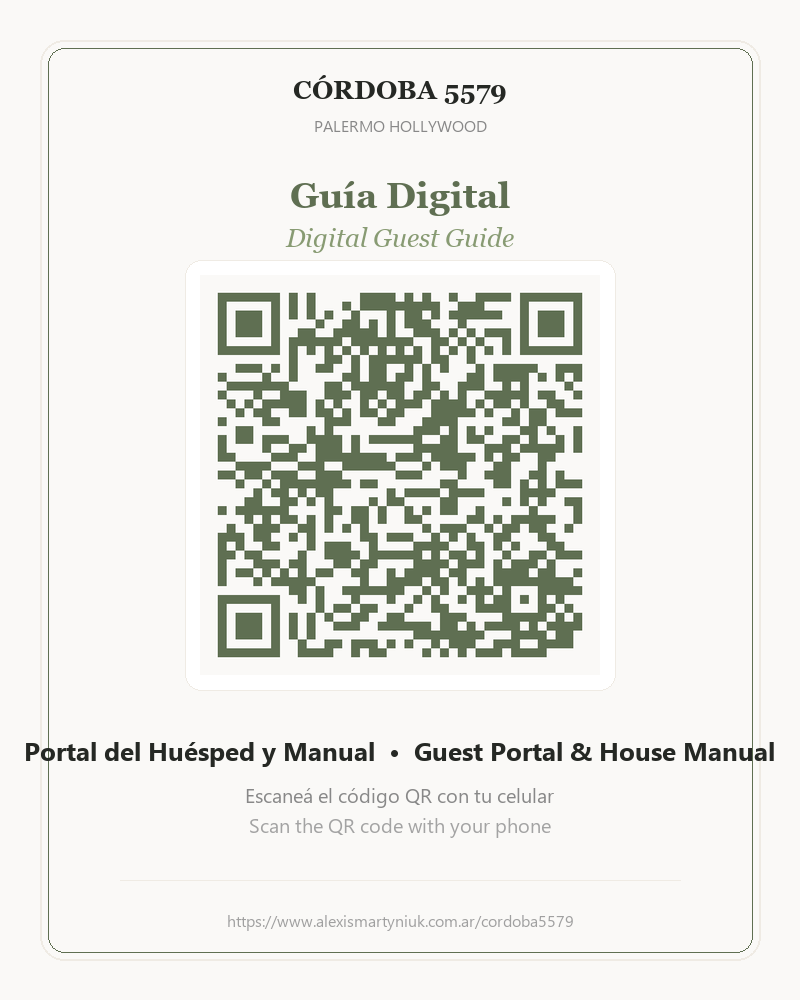
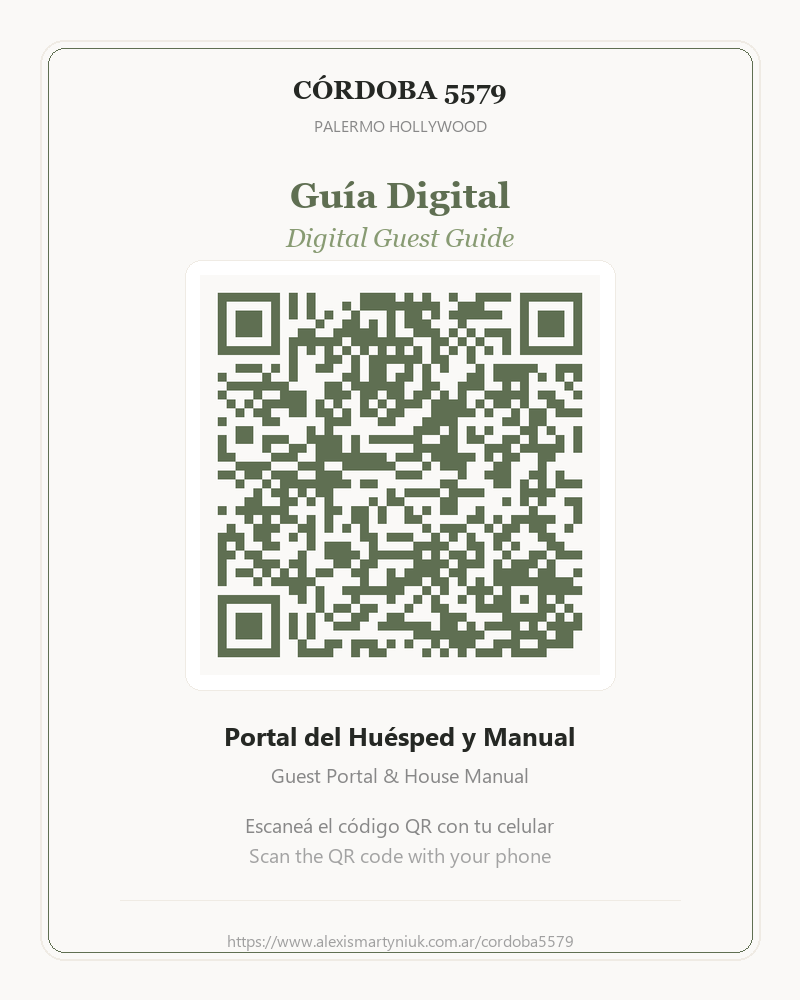
UI: Stack card sublabels vertically to prevent text overflow on individual cards

Changed region(s): [[0.0312, 0.713, 0.9688, 0.868], [0.2812, 0.899, 0.7188, 0.961]]

diff --git a/scripts/generate_qrs.py b/scripts/generate_qrs.py
@@ -145,22 +145,24 @@ def make_card(code: dict) -> Image.Image:
     )
     card.paste(qr_img, (qr_x, qr_y), mask=qr_img)
 
-    # Sublabel (Combined on one line with separator)
-    sublabel_text = f"{code['sublabel_es']}  •  {code['sublabel_en']}"
-    draw.text((W // 2, 750), sublabel_text, fill="#252824", font=font_label, anchor="mm")
+    # Sublabels Stacked
+    draw.text((W // 2, 735), code["sublabel_es"], fill="#252824", font=font_label, anchor="mm")
+    draw.text((W // 2, 775), code["sublabel_en"], fill="#888888", font=font_sublabel, anchor="mm")
     
     # Action instructions (Bilingual Stacked)
-    draw.text((W // 2, 795), "Escaneá el código QR con tu celular", fill="#888888", font=font_sublabel, anchor="mm")
-    draw.text((W // 2, 825), "Scan the QR code with your phone", fill="#a3a3a3", font=font_sublabel, anchor="mm")
+    draw.text((W // 2, 825), "Escaneá el código QR con tu celular", fill="#888888", font=font_sublabel, anchor="mm")
+    draw.text((W // 2, 855), "Scan the QR code with your phone", fill="#a3a3a3", font=font_sublabel, anchor="mm")
 
     # Divider line
-    y_div = 880
+    y_div = 900
     draw.line([(120, y_div), (W - 120, y_div)], fill="#EFEBE4", width=1)
 
     # URL at bottom
-    draw.text((W // 2, 920), code["url"], fill="#A0A0A0", font=font_url, anchor="mm")
+    draw.text((W // 2, 940), code["url"], fill="#A0A0A0", font=font_url, anchor="mm")
 
     return card.convert("RGB")
+
+
 
 
 def make_unified_sheet() -> Image.Image:
